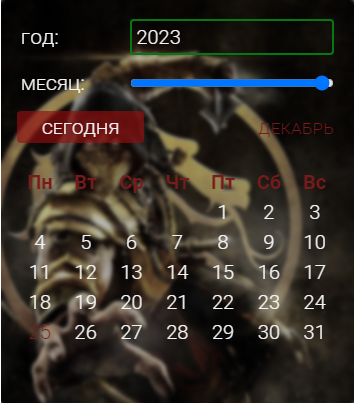
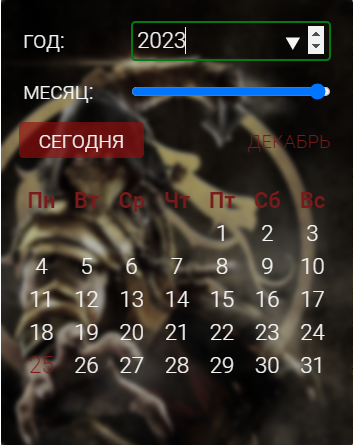
Refactor_Calendar_logic

diff --git a/index.js b/index.js
@@ -13,14 +13,11 @@ const calendar = new Calendar(
     delay: 10,
   },
   {
-    $calendarField: {
-      transform: "rotateZ(5deg)",
-      fontFamily: "Nunito Sans",
+    $calendar: {
+      backgroundImage: "url(./images/test1.jpg)",
+      color: "whitesmoke",
     },
-    $year: { backgroundColor: "teal" },
-    $month: false,
-    // относительные пути изображений в вашем проекте могут отличаться!
-    $calendar: { fontFamily: "Montserrat", background: 'url(./images/test1.jpg)' },
+    $overlay: { backdropFilter: "grayscale(.55) blur(2.1px)" },
   }
 );
 
@@ -28,11 +25,9 @@ const calendar = new Calendar(
 
 // calendar.addSelectorStyles("$calendar", 'font-family: "Nunito Sans"');
 
-
 window.addEventListener("resize", () =>
   console.log(document.documentElement.clientWidth)
 );
 
-calendar.toggleTheme()
+calendar.toggleTheme();
 // setInterval(() => calendar.toggleHidden(), 2000)
-

diff --git a/readme.md b/readme.md
@@ -262,8 +262,9 @@ const obj = {
   // объект options
 
   {
-    $calendar: {backgroundImage: 'url(./images/test1.jpg)', color: "whitesmoke"},
-    $overlay: {backdropFilter: 'grayscale(.48) blur(1.8px)'}
+    $calendar: {
+      backgroundImage: "url(./images/test1.jpg)", color: "whitesmoke"},
+    $overlay: { backdropFilter: "grayscale(.55) blur(2.1px)" },
   }
 
 ```
